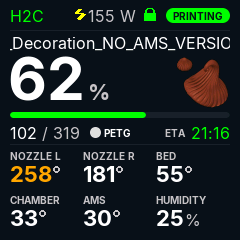
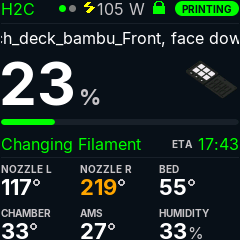
docs: refresh Cards portrait and 240x240 screenshots

diff --git a/README.md b/README.md
@@ -152,7 +152,7 @@ A calmer alternative to the gauge dashboard, readable from across the room: a bi
 <table>
 <tr>
 <td align="center"><img src="img/cards/cards-ws_lcd_200-landscape-night.png" alt="Cards, 320x240 landscape"><br><sub>320x240 landscape</sub></td>
-<td align="center"><img src="img/cards/cards-ws_lcd_200-portrait-warm-paper.png" alt="Cards, 240x320 portrait, Warm paper"><br><sub>240x320 portrait, Warm paper</sub></td>
+<td align="center"><img src="img/cards/cards-ws_lcd_200-portrait.png" alt="Cards, 240x320 portrait"><br><sub>240x320 portrait</sub></td>
 <td align="center"><img src="img/cards/cards-esp32s3-240x240.png" alt="Cards, 240x240"><br><sub>240x240</sub></td>
 </tr>
 <tr>
